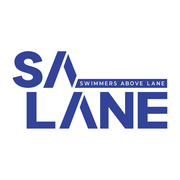
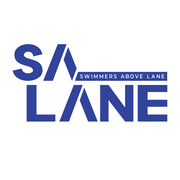
아이콘 로고를 40px 위로(시각 중심 맞춤)

Changed region(s): [[0.0556, 0.2222, 0.9444, 0.7222]]

diff --git a/index.html b/index.html
@@ -16,8 +16,8 @@
 <meta name="apple-mobile-web-app-title" content="4LANE OPS">
 <meta name="apple-mobile-web-app-status-bar-style" content="default">
 <meta name="theme-color" content="#FFFFFF">
-<link rel="apple-touch-icon" href="apple-touch-icon.png?v=2">
-<link rel="icon" type="image/png" href="icon_salane_192.png?v=2">
+<link rel="apple-touch-icon" href="apple-touch-icon.png?v=3">
+<link rel="icon" type="image/png" href="icon_salane_192.png?v=3">
 <link rel="manifest" href="manifest.webmanifest">
 <style>
   :root { --navy: #14213D; --slate: #5B6B80; --line: #DCE3EB; --amber: #C98A2E; }
